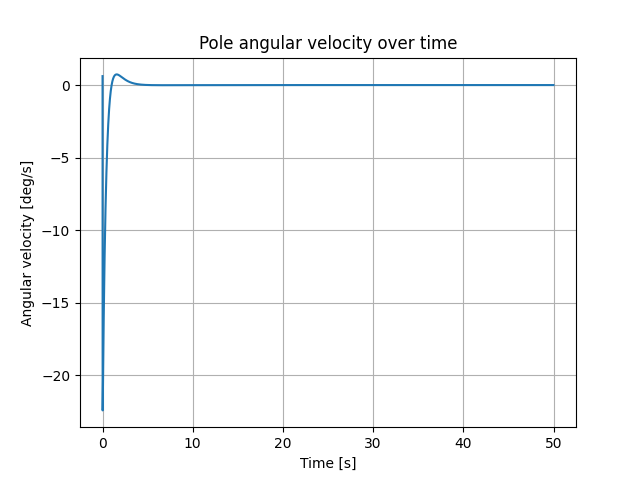
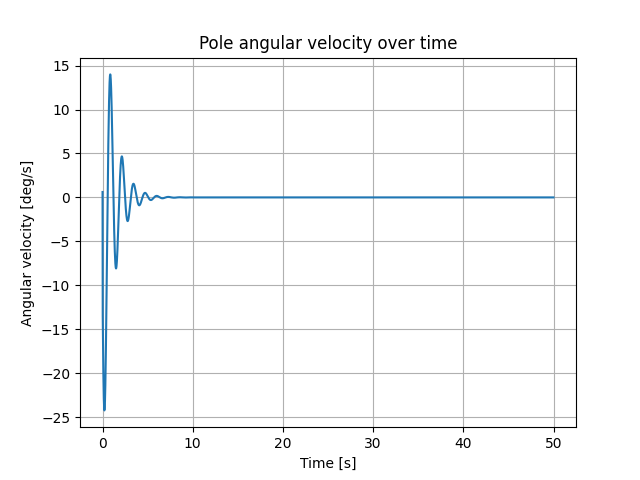
Add csv writing

diff --git a/pendulum.py b/pendulum.py
@@ -1,8 +1,9 @@
 import math
-from dataclasses import dataclass, asdict
+from dataclasses import dataclass, asdict, fields
 import matplotlib.pyplot as plt
 import json
 import subprocess
+import csv
 
 times = []
 cart_positions = []
@@ -21,7 +22,7 @@ class StateDerivative:
 
 @dataclass
 class State:
-	angle: float = 0.43633
+	angle: float = 2.03633
 	angular_velocity: float = 0.0
 	cart_position: float = 0
 	cart_velocity: float = 0
@@ -124,6 +125,24 @@ process = subprocess.Popen(
     text=True,
 )
 
+def writeToFile(state: dataclass):
+	filename="data.csv"
+	try:
+		with open(filename, "r") as f:
+			has_header = True
+	except FileNotFoundError:
+		has_header = False
+	
+	with open(filename, "a", newline="", encoding="utf-8") as f:
+		fieldnames = [field.name for field in fields(state)]
+		writer = csv.DictWriter(f,fieldnames=fieldnames)
+
+		if not has_header:
+			writer.writeheader()
+		
+		writer.writerow(asdict(state))
+
+
 force = 0
 
 for x in range(5000):
@@ -139,9 +158,8 @@ for x in range(5000):
 	response = process.stdout.readline()
 	output = json.loads(response)
 	force = output["force"]
+	writeToFile(state)
 	print(force)
-
-#process.wait()
 
 
 plt.figure()
